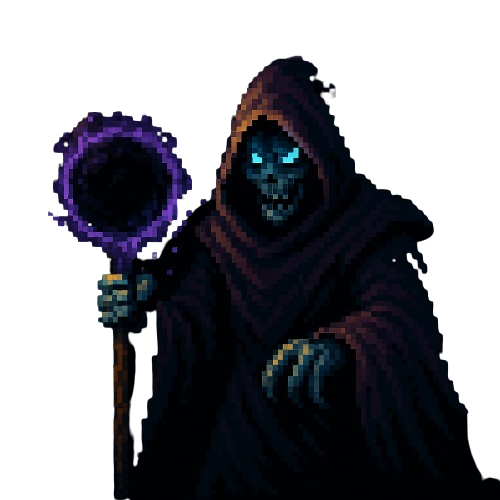
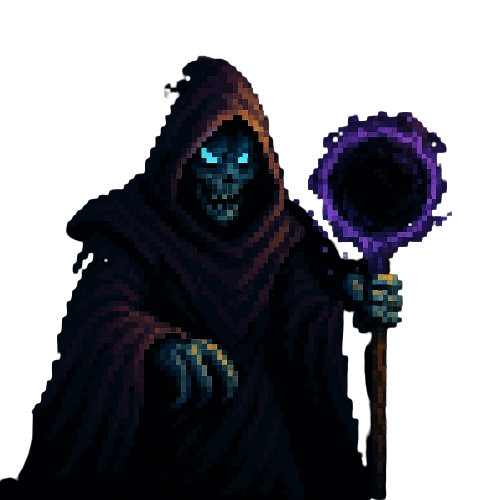
Actualización de gráficos y ajustes en la lógica de enemigos; correcion ataques jefe 3 y 1, altura cofre jefe 3

diff --git a/levels_mazmorra/mazmorra_jefe.py b/levels_mazmorra/mazmorra_jefe.py
@@ -31,7 +31,7 @@ class MazmorraJefeScene(GameScene):
         
         # --- CREACIÓN DEL JEFE CORREGIDA ---
         boss_start_x = self.map_width - 300
-        boss_start_y = ground_y # <-- AHORA APARECE SOBRE EL SUELO
+        boss_start_y = ground_y-35
         self.boss = Boss1(boss_start_x, boss_start_y, "boss1")
         self.enemigos.append(self.boss)
         
@@ -65,7 +65,7 @@ class MazmorraJefeScene(GameScene):
         if self.victory_dialogue.active:
             self.victory_dialogue.update()
             if self.victory_dialogue.finished:
-                self.running = False # Finaliza la escena para la transición
+                self.running = False 
             return 
             
         super().update() # Llama al update de GameScene para lógica general
@@ -76,11 +76,11 @@ class MazmorraJefeScene(GameScene):
         
         # Lógica de victoria cuando el jefe es derrotado
         if not self.enemigos and not self.victory_dialogue_triggered:
-            self.progreso_llave[0] = True # Marca el primer fragmento de llave como conseguido
+            self.progreso_llave[0] = True 
             
   
             
-            self.can_save = True # <--- ¡CAMBIO CRUCIAL! Habilita el guardado manual después de la victoria
+            self.can_save = True 
             
             if self.sound_fragment_collected:
                 self.sound_fragment_collected.play() # Reproduce sonido de fragmento

diff --git a/player.py b/player.py
@@ -210,14 +210,14 @@ class Jugador:
             if render_width > 0 and render_height > 0:
                 superficie.blit(pygame.transform.scale(imagen_a_dibujar, (render_width, render_height)), (render_pos_x, render_pos_y))
 
-        # --- Dibuja la hitbox de depuración ---
-        if hasattr(self, 'hitbox'):
-            debug_hitbox_rect = self.hitbox.copy()
-            debug_hitbox_rect.x = (self.hitbox.x - offset_x) * zoom
-            debug_hitbox_rect.y = (self.hitbox.y - offset_y) * zoom
-            debug_hitbox_rect.width *= zoom
-            debug_hitbox_rect.height *= zoom
-            pygame.draw.rect(superficie, (0, 255, 0), debug_hitbox_rect, 2) # Dibuja un rectángulo verde
+        # # --- Dibuja la hitbox de depuración ---
+        # if hasattr(self, 'hitbox'):
+        #     debug_hitbox_rect = self.hitbox.copy()
+        #     debug_hitbox_rect.x = (self.hitbox.x - offset_x) * zoom
+        #     debug_hitbox_rect.y = (self.hitbox.y - offset_y) * zoom
+        #     debug_hitbox_rect.width *= zoom
+        #     debug_hitbox_rect.height *= zoom
+        #     pygame.draw.rect(superficie, (0, 255, 0), debug_hitbox_rect, 2) # Dibuja un rectángulo verde
 
         # Dibuja los proyectiles del jugador
         for proyectil in self.proyectiles:

diff --git a/constants.py b/constants.py
@@ -75,7 +75,8 @@ ENEMY_INFO = {
     },
 
     "golem": {
-        "health": 150, "speed": 1, "death_sound": "sounds/muerte_golem.wav", "scale": 4.5, "width": 140, "height": 130, "y_offset": 0, "hitbox_scale": (1.8, 2.0), "hitbox_offset": (-10, 20),
+        "health": 150, "speed": 1, "death_sound": "sounds/muerte_golem.wav", "scale": 4.5, "width": 140, "height": 140, "y_offset": 0, "hitbox_scale": (0.8, 10.5),
+        "hitbox_offset": (-10, -500),
         "attack_damage": 25, "attack_range": 220, "attack_cooldown": 2200, "attack_damage_frame": 5, "detection_radius": 350,
         "anim_data": {
             "idle":   {"path": "Enemies/golem/Golem_1_idle.png",   "frames": 8},
@@ -104,9 +105,9 @@ ENEMY_INFO = {
     },
     "boss1": {
         "health": BOSS_HEALTH, "speed": 0, "death_sound": "sounds/muerte_jefe.wav",
-        "scale": 1.0, "width": 250, "height": 250, "y_offset": 0,
-        "hitbox_scale": (0.5, 0.6), 
-        "hitbox_offset": (-10, -20), 
+        "scale": 1.0, "width": 350, "height": 400, "y_offset": 0,
+        "hitbox_scale": (0.5, 2.5), 
+        "hitbox_offset": (-10, +120), 
         "sprite_path": "Enemies/boss1.png",
         "is_boss": True
     },

diff --git a/game_scene.py b/game_scene.py
@@ -315,14 +315,14 @@ class GameScene:
         if self.is_paused:
             self.pause_menu.draw(self.can_save)
 
-         # --- AÑADE ESTE CÓDIGO TEMPORALMENTE PARA VER LAS PLATAFORMAS ---
-        for p in self.platforms:
-            debug_rect = p.copy()
-            debug_rect.x = (p.x - render_offset_x) * self.zoom
-            debug_rect.y = (p.y - render_offset_y) * self.zoom
-            debug_rect.width *= self.zoom
-            debug_rect.height *= self.zoom
-            pygame.draw.rect(self.screen, (0, 0, 255), debug_rect, 2) # Dibuja en azul
+        #  # --- CÓDIGO TEMPORAL PARA VER LAS PLATAFORMAS ---
+        # for p in self.platforms:
+        #     debug_rect = p.copy()
+        #     debug_rect.x = (p.x - render_offset_x) * self.zoom
+        #     debug_rect.y = (p.y - render_offset_y) * self.zoom
+        #     debug_rect.width *= self.zoom
+        #     debug_rect.height *= self.zoom
+        #     pygame.draw.rect(self.screen, (0, 0, 255), debug_rect, 2) # Dibuja en azul
 
     def run(self, selected_character_for_this_scene=None):
         if selected_character_for_this_scene:

diff --git a/abilities.py b/abilities.py
@@ -111,7 +111,7 @@ class BossGroundProjectile(Proyectil):
     def __init__(self, x, y, direccion):
         super().__init__(x, y, direccion)
         self.image = pygame.transform.scale(pygame.image.load(SKILL_ICON_PATHS["boss_groundwave"]).convert_alpha(), (60, 30))
-        self.rect = self.image.get_rect(midbottom=(x, y)); self.velocidad = 8; self.danio = 5
+        self.rect = self.image.get_rect(midbottom=(x, y+60)); self.velocidad = 8; self.danio = 5
     def dibujar(self, s, ox, oy, z):
         if self.activo: s.blit(self.image, ((self.rect.x - ox) * z, (self.rect.y - oy) * z))
 
@@ -247,6 +247,6 @@ class AgisGroundProjectile(Proyectil):
     def __init__(self, x, y, direccion):
         super().__init__(x, y, direccion)
         self.image = pygame.transform.scale(pygame.image.load(SKILL_ICON_PATHS["boss3_proyectil"]).convert_alpha(), (60, 30))
-        self.rect = self.image.get_rect(midbottom=(x, y))
+        self.rect = self.image.get_rect(midbottom=(x, y+70))
         self.velocidad = 8
         self.danio = 20

diff --git a/enemy.py b/enemy.py
@@ -210,9 +210,9 @@ class Enemigo:
             if current_health_width > 0:
                 pygame.draw.rect(superficie, RED_HEALTH, (bar_pos_x, bar_pos_y, current_health_width, bar_height))
 
-        if hasattr(self, 'hitbox'):
-            debug_rect = pygame.Rect((self.hitbox.x - offset_x) * zoom, (self.hitbox.y - offset_y) * zoom, self.hitbox.width * zoom, self.hitbox.height * zoom)
-            pygame.draw.rect(superficie, (255, 0, 0), debug_rect, 2)
+        # if hasattr(self, 'hitbox'):
+        #     debug_rect = pygame.Rect((self.hitbox.x - offset_x) * zoom, (self.hitbox.y - offset_y) * zoom, self.hitbox.width * zoom, self.hitbox.height * zoom)
+        #     pygame.draw.rect(superficie, (255, 0, 0), debug_rect, 2)
             
             
 class FlyingEnemy(Enemigo):

diff --git a/levels_mazmorra/mazmorra_boss3.py b/levels_mazmorra/mazmorra_boss3.py
@@ -31,7 +31,7 @@ class MazmorraBoss3Scene(GameScene):
         self.enemigos.append(self.boss)
         self.boss_health_bar = BossHealthBar(screen, self.boss, "Agis, Heraldo del Fin")
 
-        self.chest = FinalChest(self.boss_start_x-270, self.boss_start_y - COFRE_HEIGHT-5 )
+        self.chest = FinalChest(self.boss_start_x-270, self.boss_start_y - COFRE_HEIGHT-50 )
         
         self.dialogue_final = DialogueBox(screen, text_lines=[
             "Así que lo has logrado, mortal...",

diff --git a/levels_mazmorra/mazmorrap1.py b/levels_mazmorra/mazmorrap1.py
@@ -18,7 +18,7 @@ class MazmorraP1Scene(GameScene):
         # --- LISTA SIMPLIFICADA ---
         dungeon_enemies = [
             (600, ground_y-50, 200, "esqueleto"),
-            (1200, ground_y-70, 250, "golem"),
+            (1200, ground_y-50, 250, "golem"),
             (1800, ground_y-50, 200, "esqueleto"),
             (2400, ground_y-50, 150-65, "lobo"),
         ]
